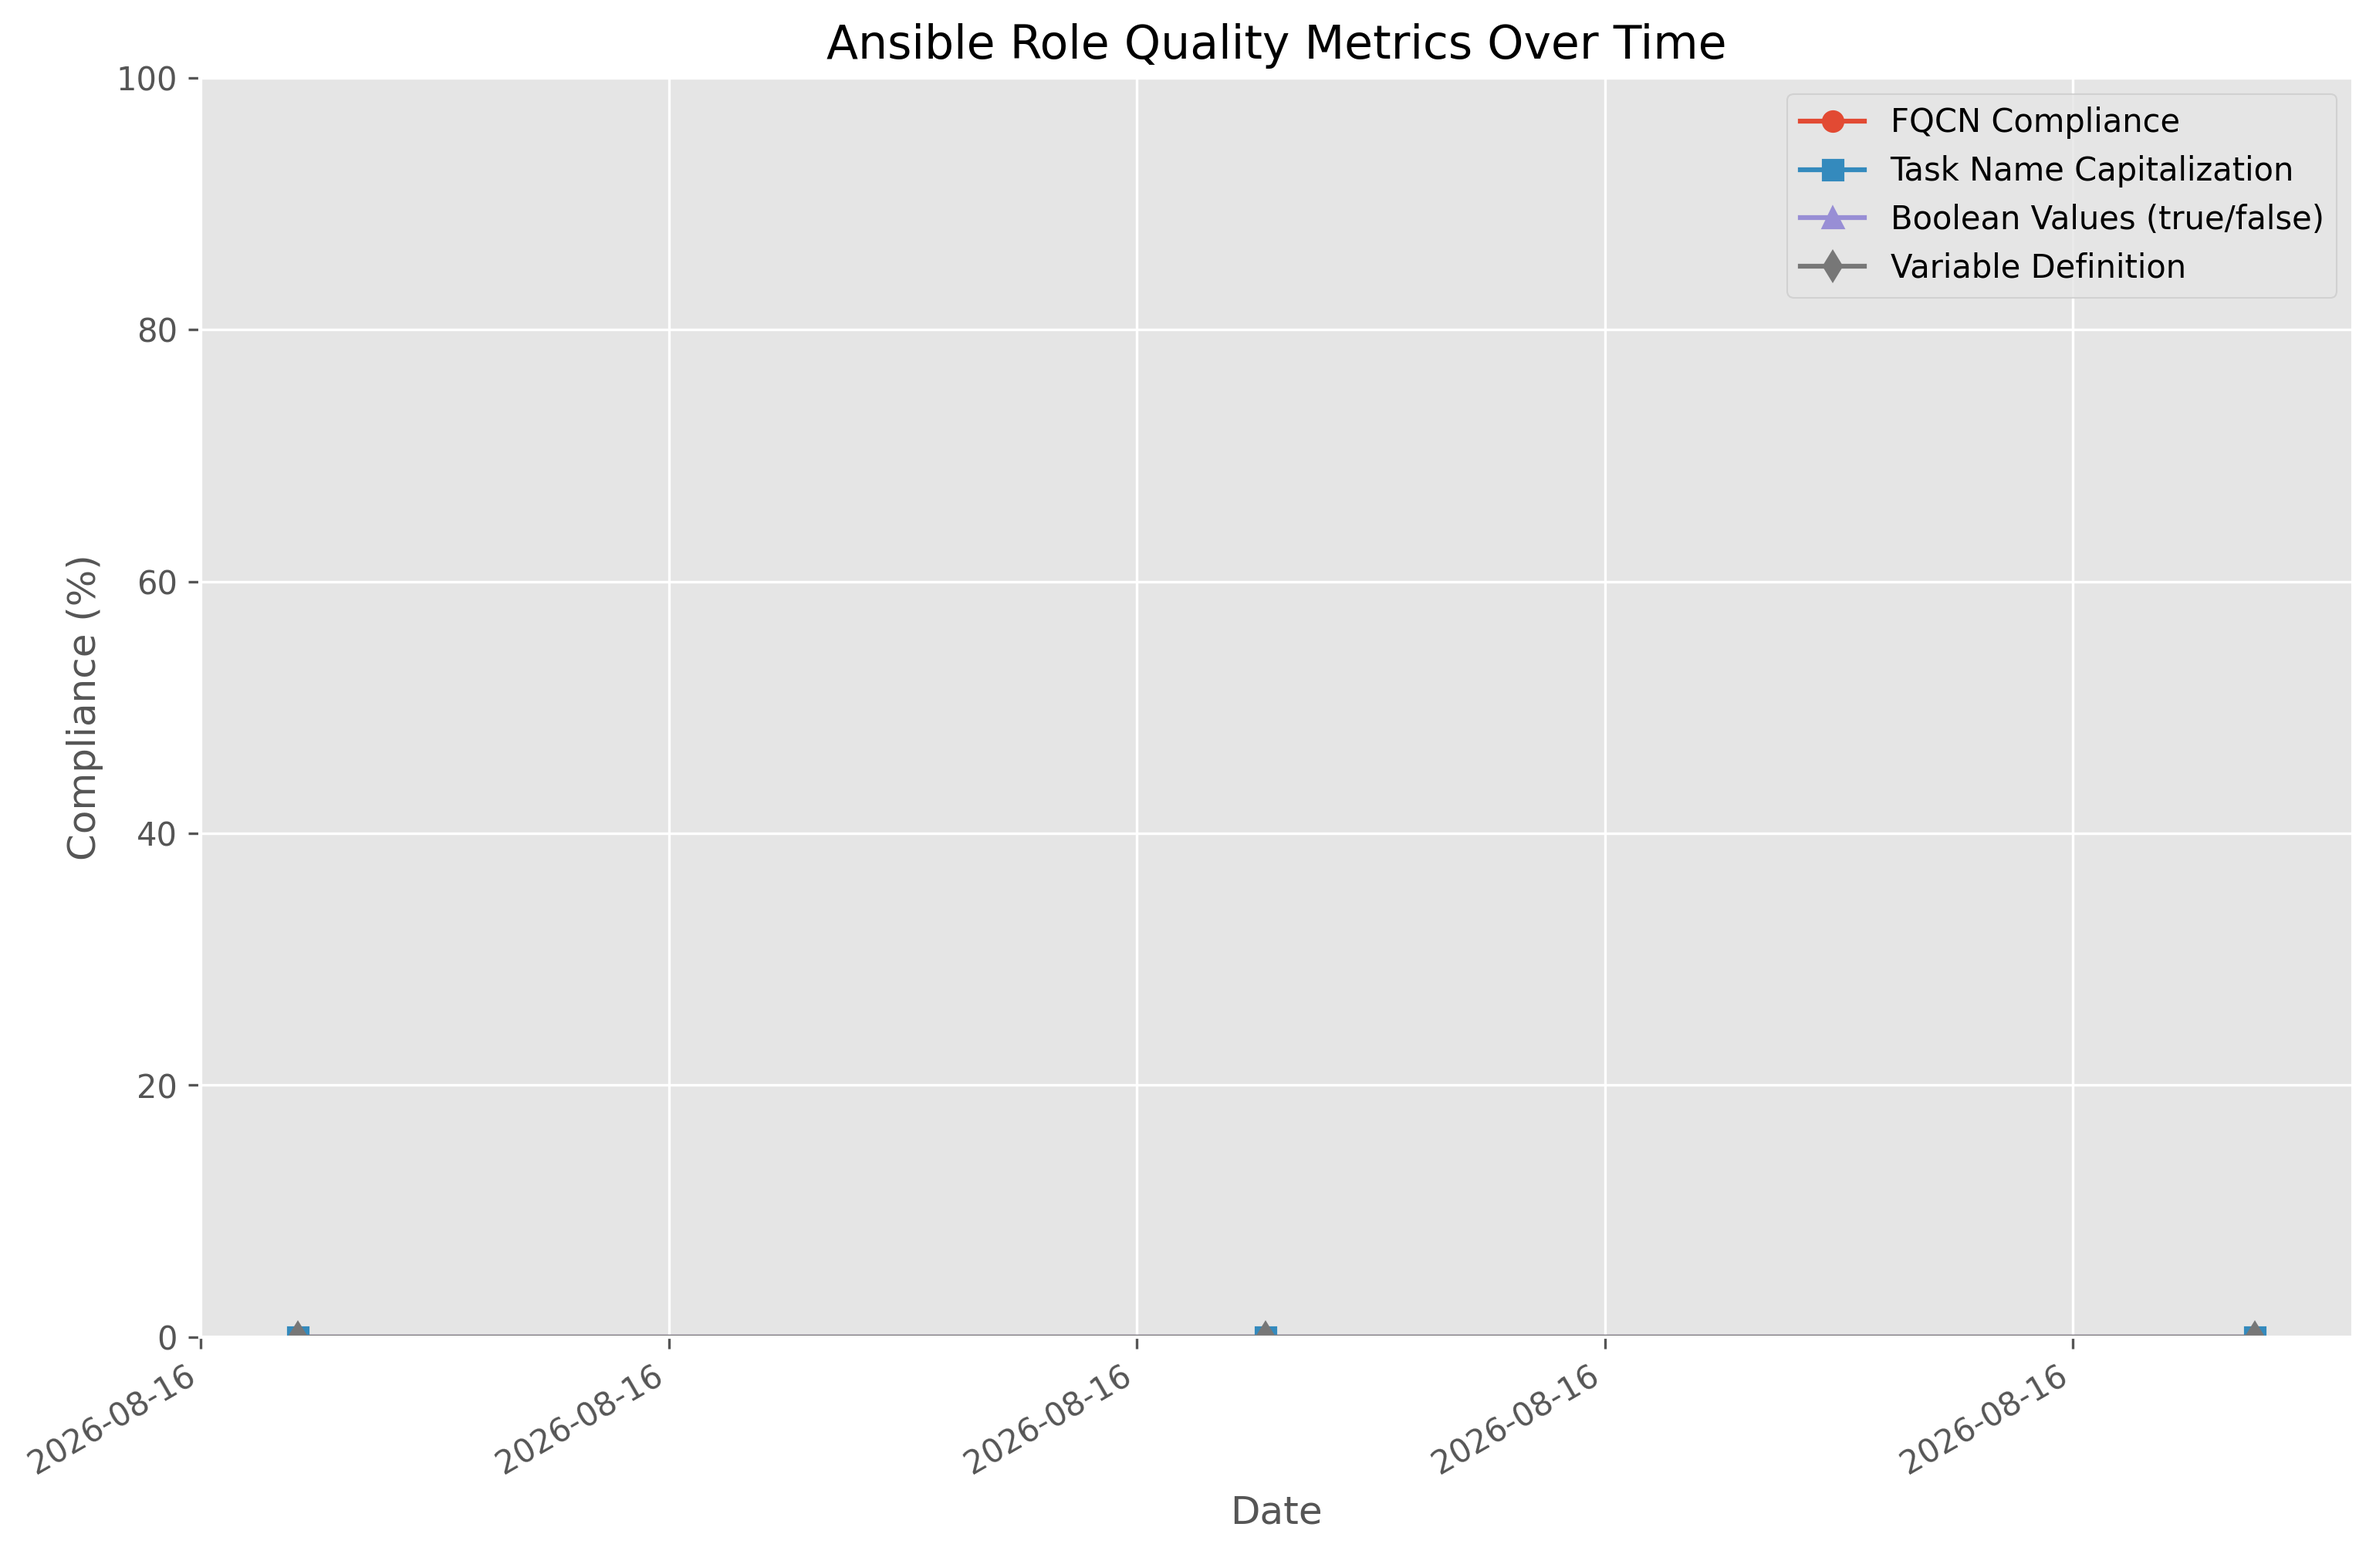
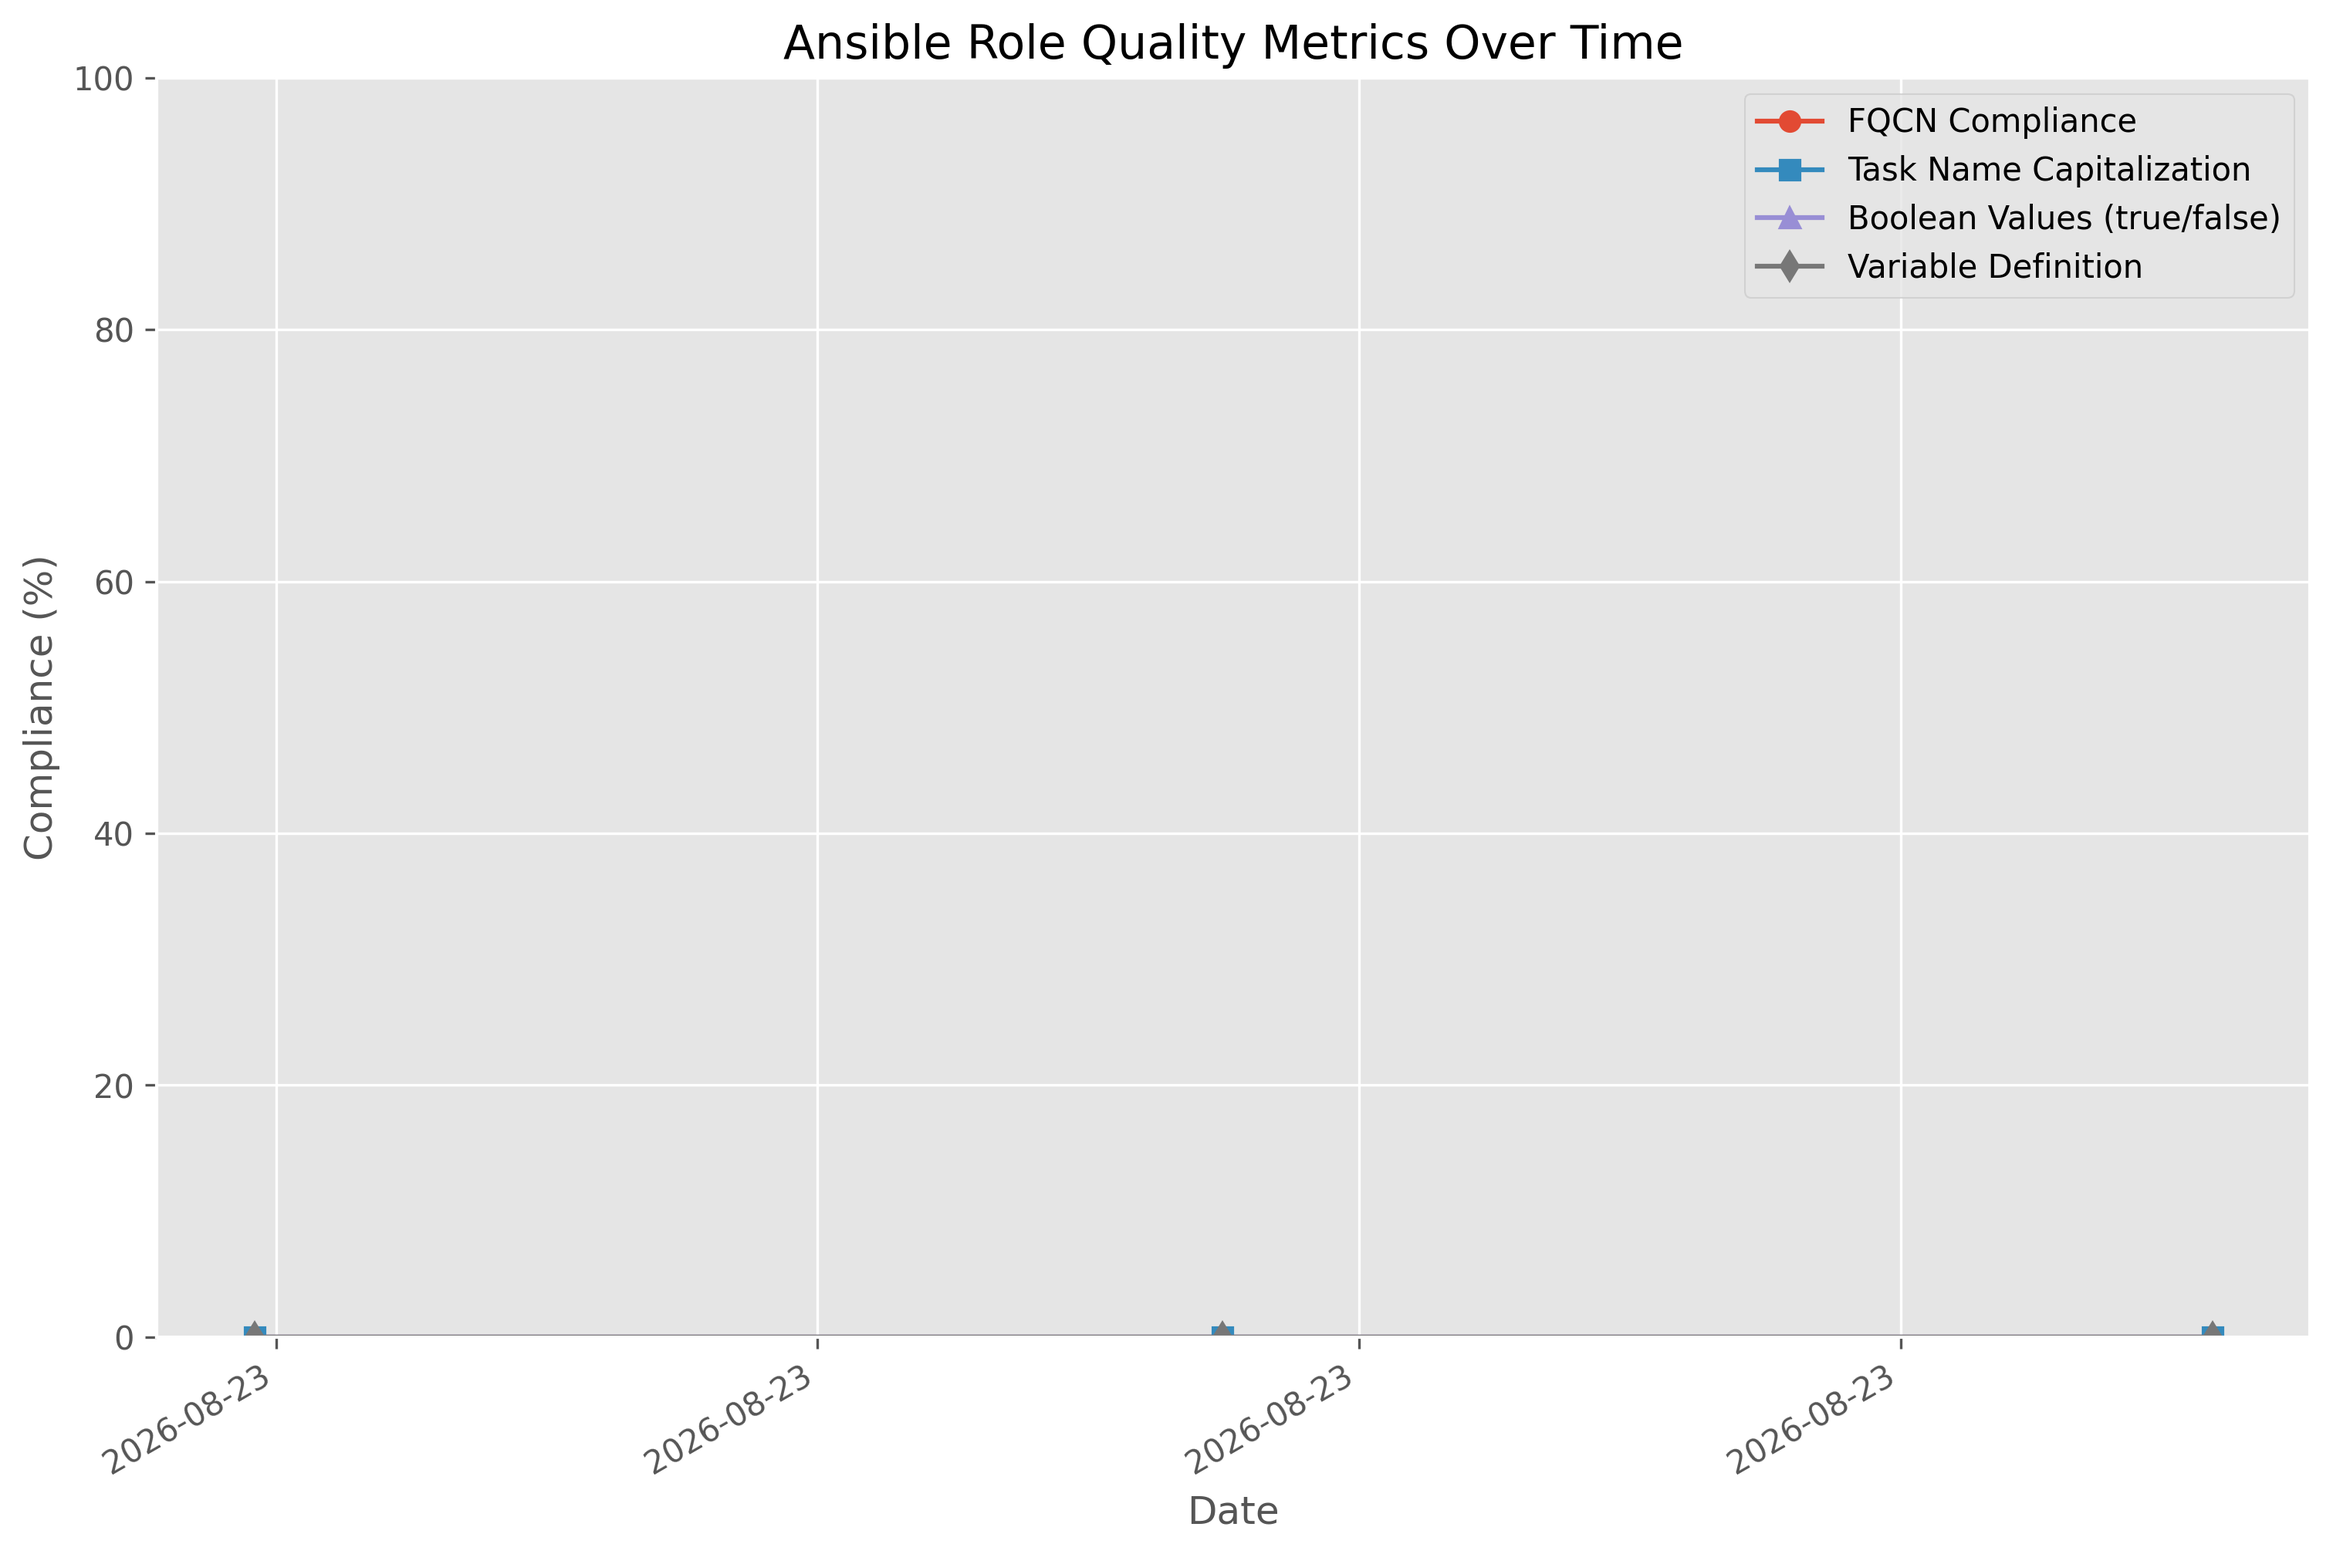
Update metrics (automated) 86381e575e3cb567ae7d61f2b827ec3665fe9a28

diff --git a/metrics/metrics_summary.md b/metrics/metrics_summary.md
@@ -1,6 +1,6 @@
 # Chef to Ansible Conversion Metrics
 
-Last updated: 2026-08-16 01:16:07
+Last updated: 2026-08-23 01:17:14
 
 ## Latest Compliance Metrics
 
